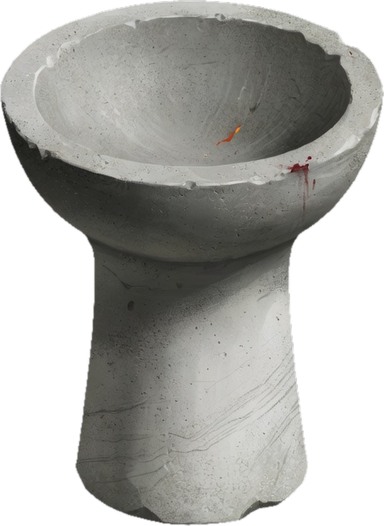
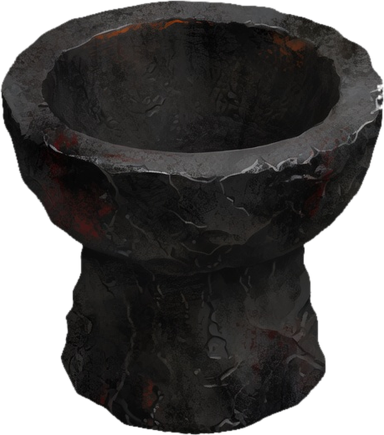
Ashen Vigil: dark basalt brazier keyed from grey, neutral grey floor tone
- brazier_stone regenerated as charred dark basalt on a flat mid-grey
  background (black would swallow dark stone). postprocess.py 'prop' now
  reads the background colour from the image border and keys by colour
  distance, so black and grey backgrounds both work; the black-background
  props re-key to within 0.4% of their previous alpha, so they were kept.
  gen_assets.py: items may set "post" to choose the postprocess mode.
- main.ts: drop the temporary 0.42x brazier darkening; bowl fire anchored
  at 80% of the new image; brazier height 2.4.
- Floor tone: vertex colours slightly cool instead of warm, cooler
  hemisphere/moon fill, cool-black fog/background, torch light a little
  less saturated with a shorter reach (15 -> 11). Far stone R/B ratio
  2.45 -> 1.08 at similar brightness; warm pools remain around fires.

Claude-Session: https://claude.ai/code/session_01MsNSeJ9wzMxFgPNhNBTSXp

diff --git a/ashen-vigil/src/main.ts b/ashen-vigil/src/main.ts
@@ -22,8 +22,8 @@ renderer.toneMappingExposure = 1.0;
 document.body.appendChild(renderer.domElement);
 
 const scene = new THREE.Scene();
-scene.background = new THREE.Color(0x0b0a09);
-scene.fog = new THREE.Fog(0x0b0a09, 32, 62);
+scene.background = new THREE.Color(0x0a0b0d);
+scene.fog = new THREE.Fog(0x0a0b0d, 32, 62);
 
 // Isometric-style orthographic camera, kept at a fixed offset from the hero.
 const camera = new THREE.OrthographicCamera(-1, 1, 1, -1, 0.1, 200);
@@ -52,8 +52,9 @@ window.addEventListener('resize', resize);
 resize();
 
 // Dim ambient light: the world should be dark outside light sources.
-scene.add(new THREE.HemisphereLight(0x5a5c70, 0x1a1410, 0.45));
-const moon = new THREE.DirectionalLight(0x8090b0, 0.35);
+// Cool, neutral fill so stone away from the fires reads as grey, not brown.
+scene.add(new THREE.HemisphereLight(0x6c7688, 0x15171b, 0.6));
+const moon = new THREE.DirectionalLight(0x8a9ab8, 0.4);
 moon.position.set(-10, 30, 5);
 scene.add(moon);
 
@@ -136,7 +137,7 @@ const floorGeo = new THREE.PlaneGeometry(GRID * TILE, GRID * TILE, 48, 48).rotat
     const patch = 0.7 + 0.45 * (0.5 + 0.25 * Math.sin(x * 0.31 + 1.3) + 0.25 * Math.sin(z * 0.27 + x * 0.11)) + (rand() - 0.5) * 0.12;
     const edge = THREE.MathUtils.smoothstep(half - Math.max(Math.abs(x), Math.abs(z)), 0, 4);
     const v = patch * (0.25 + 0.75 * edge);
-    col[i * 3] = v; col[i * 3 + 1] = v * 0.97; col[i * 3 + 2] = v * 0.93;
+    col[i * 3] = v * 0.95; col[i * 3 + 1] = v * 0.98; col[i * 3 + 2] = v;   // slightly cool; warmth comes from the fires only
   }
   floorGeo.setAttribute('color', new THREE.BufferAttribute(col, 3));
 }
@@ -166,10 +167,6 @@ for (const id of PROP_IDS) {
     emissive: 0xffffff, emissiveMap: tex, emissiveIntensity: 0.25,
   }));
 }
-// The pedestal was painted in pale limestone (darker prompts lost detail to
-// the black background); tone it down so it sits beside the torchlit floor.
-propMats.get('brazier_stone')!.color.setScalar(0.42);
-propMats.get('brazier_stone')!.emissiveIntensity = 0.1;
 const CAM_DIR = CAM_OFFSET.clone().normalize();                       // from the scene toward the camera
 const PROP_YAW = Math.atan2(CAM_DIR.x, CAM_DIR.z);
 const PROP_TILT = Math.atan2(Math.hypot(CAM_DIR.x, CAM_DIR.z), CAM_DIR.y) - Math.PI / 2; // lean back so the quad faces the camera
@@ -198,7 +195,7 @@ interface Torch {
 }
 const torches: Torch[] = [];
 const braziers: [number, number][] = [[-8, -8], [8, -8], [-8, 8], [8, 8], [0, -14], [-14, 2], [14, -2]];
-const BRAZIER_H = 2.6;
+const BRAZIER_H = 2.4;
 const SPARKS_PER = 12;
 const SPARKS = braziers.length * SPARKS_PER;
 const sparkPos = new Float32Array(SPARKS * 3);
@@ -208,8 +205,8 @@ const sparkVel = new Float32Array(SPARKS * 3);
 function placeBraziers(aspect: number) {
   for (const [x, z] of braziers) {
     addProp('brazier_stone', x, z, BRAZIER_H, aspect);
-    // Centre of the bowl opening sits ~86% up the image; nudge toward the camera so the fire draws over the rim.
-    const bowl = new THREE.Vector3(x, 0, z).addScaledVector(PROP_UP, BRAZIER_H * 0.86).addScaledVector(CAM_DIR, 0.4);
+    // Centre of the bowl opening sits ~80% up the image; nudge toward the camera so the fire draws over the rim.
+    const bowl = new THREE.Vector3(x, 0, z).addScaledVector(PROP_UP, BRAZIER_H * 0.8).addScaledVector(CAM_DIR, 0.4);
     const coalMat = new THREE.SpriteMaterial({ map: glowTex, color: new THREE.Color(0.9, 0.25, 0.05), blending: THREE.AdditiveBlending, depthWrite: false, fog: false });
     const coals = new THREE.Sprite(coalMat);
     coals.scale.set(0.95, 0.4, 1);
@@ -231,10 +228,10 @@ function placeBraziers(aspect: number) {
     halo.position.copy(bowl).y += 0.5;
     scene.add(halo);
 
-    const light = new THREE.PointLight(0xff8a3a, 36, 18, 2);
+    const light = new THREE.PointLight(0xff9548, 34, 11, 2);   // short reach: warm pools, cool stone between them
     light.position.copy(bowl).add(new THREE.Vector3(0.6, 0.6, 0.6));    // a little toward the camera so the painted face is lit
     scene.add(light);
-    torches.push({ light, flames, halo, coals: coalMat, base: 36, phase: rand() * 10, x: bowl.x, y: bowl.y - 0.55, z: bowl.z });
+    torches.push({ light, flames, halo, coals: coalMat, base: 34, phase: rand() * 10, x: bowl.x, y: bowl.y - 0.55, z: bowl.z });
   }
   for (let i = 0; i < SPARKS; i++) { respawnSpark(i, torches[Math.floor(i / SPARKS_PER)]); sparkLife[i] = rand() * 2; }
   sparks.visible = true;

diff --git a/ashen-vigil/index.html b/ashen-vigil/index.html
@@ -5,7 +5,7 @@
   <meta name="viewport" content="width=device-width, initial-scale=1" />
   <title>Ashen Vigil</title>
   <style>
-    html, body { margin: 0; height: 100%; background: #0b0a09; overflow: hidden; }
+    html, body { margin: 0; height: 100%; background: #0a0b0d; overflow: hidden; }
     #hud { position: fixed; left: 16px; bottom: 16px; color: #b8aa98;
            font: 13px/1.5 system-ui, sans-serif; pointer-events: none; text-shadow: 0 1px 2px #000; }
     #hud b { color: #e8873a; }

diff --git a/ashen-vigil/tools/postprocess.py b/ashen-vigil/tools/postprocess.py
@@ -10,7 +10,8 @@
       Cut away a flat border / rounded frame the model drew around the art,
       crop to a square and resize -> public/assets/icons/<id>.png
   python3 tools/postprocess.py prop <raw image> <id> [max width]
-      Cut a world prop out of its dark background (only background connected
+      Cut a world prop out of its flat background (black or grey; the colour
+      is read from the border) (only background connected
       to the image border is removed, so dark stone inside stays opaque),
       remove the dark fringe, crop, scale to at most 384px wide ->
       public/assets/props/<id>.png; size and anchor go to props/props.json.
@@ -127,11 +128,18 @@ def prop(src, name, max_w=384):
     from PIL import ImageDraw
 
     im = Image.open(src).convert("RGB")
-    bg = background_level(im)
-    lum = np.asarray(im.convert("L"), dtype=np.float32)
-    # The prop backgrounds are near pure black and very flat, so a tight band
-    # is enough; a wide one leaks into dark stone through shadowed paths.
-    lo, hi = bg + 3, bg + 14
+    rgb = np.asarray(im, dtype=np.float32)
+    # Background colour = median of the border pixels; works for the black
+    # backgrounds and for a flat grey one (keying dark objects, which would
+    # vanish into black). Distance = largest per-channel difference from it.
+    border = np.concatenate([rgb[:4].reshape(-1, 3), rgb[-4:].reshape(-1, 3), rgb[:, :4].reshape(-1, 3), rgb[:, -4:].reshape(-1, 3)])
+    bg_rgb = np.median(border, axis=0)
+    dist = np.abs(rgb - bg_rgb).max(axis=2)
+    noise = float(np.percentile(np.abs(border - bg_rgb).max(axis=1), 95))
+    # A tight band above the background's own noise; a wide one leaks into
+    # the object through shadowed paths.
+    lo, hi = noise + 3, noise + 14
+    lum = dist
     # Background candidates, flood-filled from the border. Very dark parts of
     # the object (shadowed carving, wood grain) can touch the background
     # through thin gaps, so the object mask is first closed (gaps up to

diff --git a/ashen-vigil/tools/gen_assets.py b/ashen-vigil/tools/gen_assets.py
@@ -11,6 +11,8 @@ Spec file (JSON):
     "kinds": {"icon": "extra words for icons", ...},
     "items": [{"id": "icon_sword", "kind": "icon", "prompt": "A worn longsword ..."}, ...]
   }
+An item may set "post" to pick the postprocess mode when its kind differs
+(e.g. kind "prop_grey" processed as "prop").
 
 Each result is saved as assets/raw/<id>.png. Items of kind "icon", "skill", "texture" and "prop" are then
 passed through tools/postprocess.py (icons: background removal / frame crop, 128px;
@@ -119,8 +121,9 @@ def main():
             print(f"[{iid}] FAILED: {e}")
             continue
         print(f"[{iid}] saved {out.relative_to(ROOT)}")
-        if item.get("kind") in ("icon", "skill", "texture", "prop"):
-            subprocess.run([sys.executable, str(ROOT / "tools" / "postprocess.py"), item["kind"], str(out), iid], check=True)
+        post = item.get("post", item.get("kind"))  # postprocess mode; defaults to the kind
+        if post in ("icon", "skill", "texture", "prop"):
+            subprocess.run([sys.executable, str(ROOT / "tools" / "postprocess.py"), post, str(out), iid], check=True)
         if item.get("kind") == "texture":  # normal map from the processed texture
             subprocess.run([sys.executable, str(ROOT / "tools" / "postprocess.py"), "normal", iid], check=True)
     return 1 if failed else 0
